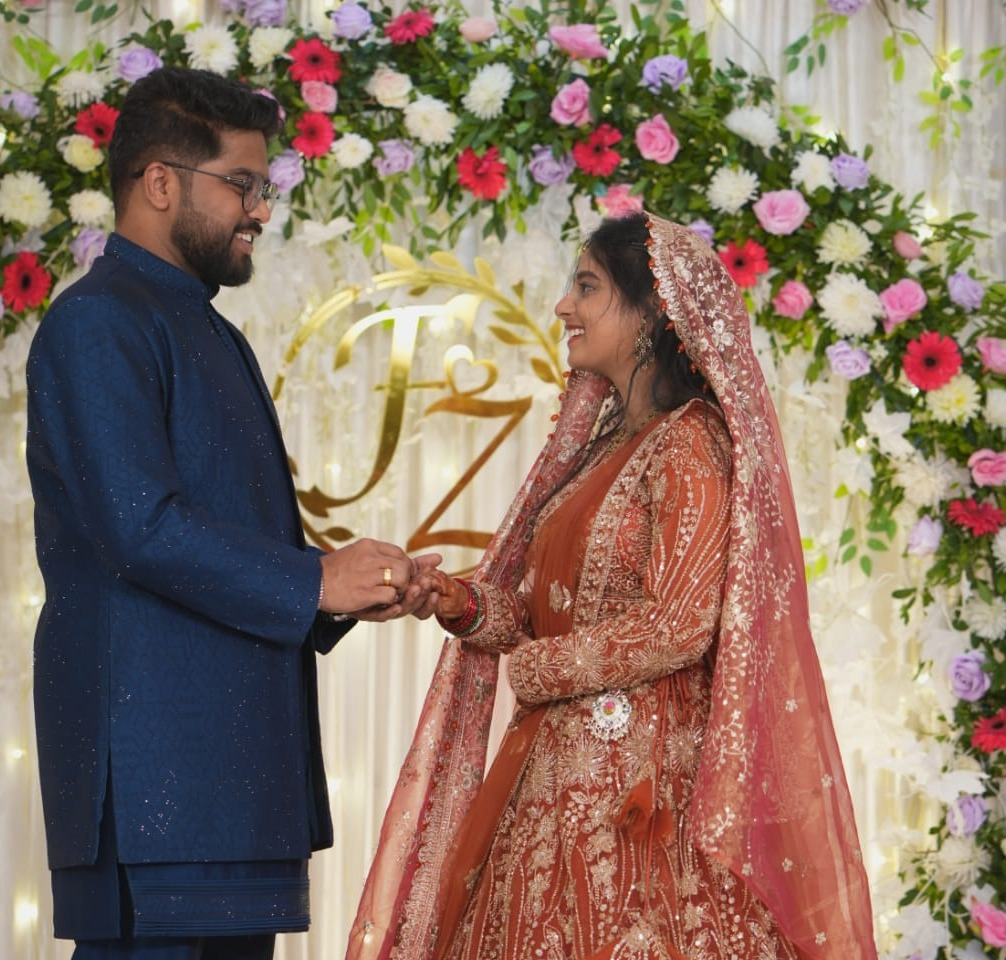
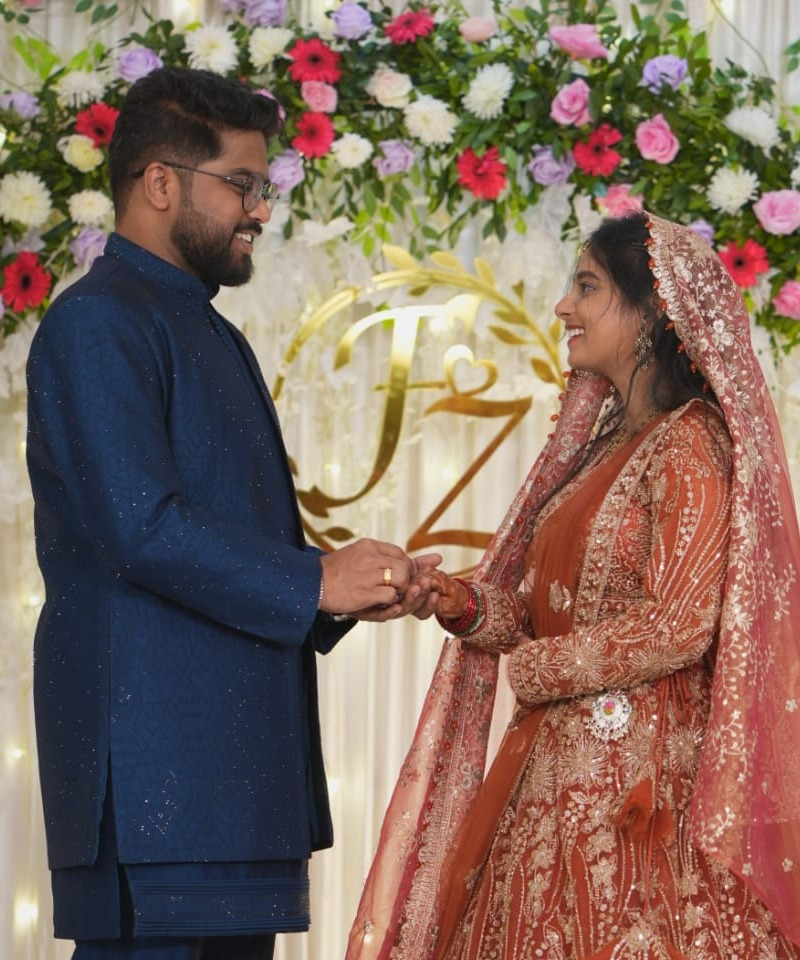
Fix hero ornament centering bug; re-center the story photo crop
- The hero ornament's centering transform (translateX(-50%)) and the
  .fade-up entrance animation's transform (translateY) were both
  writing to the same CSS property on the same element, so the
  fade-up animation silently won and the centering was never applied
  — the ornament rendered ~100px right of true center. Moved the
  centering to a wrapper div so the two transforms no longer collide.
- Re-cropped the story photo: the previous crop centered on the
  photo's geometric middle, but the two faces themselves sit left of
  that middle, so the couple looked off-center inside the arch frame.
  Re-cropped narrower (800x960) around the actual midpoint between
  their faces/clasped hands instead.

diff --git a/our-wedding.html b/our-wedding.html
@@ -96,8 +96,11 @@
     background-size: cover;
     background-position: center 25%;
   }
-  .hero-ornament {
+  .hero-ornament-wrap {
     position: absolute; top: clamp(14px, 3vh, 28px); left: 50%; transform: translateX(-50%);
+  }
+  .hero-ornament {
+    display: block;
     width: min(220px, 55vw); height: auto; color: var(--gold); opacity: 0.85;
   }
   .hero-eyebrow {
@@ -208,7 +211,7 @@
   .story-photo-frame {
     width: 100%;
     max-width: 340px;
-    aspect-ratio: 1006 / 960;
+    aspect-ratio: 800 / 960;
     margin: 0 auto 28px;
     padding: 5px;
     background: linear-gradient(160deg, var(--gold), var(--bronze));
@@ -423,13 +426,15 @@
 </nav>
 
 <section id="home" class="hero">
-  <svg class="hero-ornament fade-up" viewBox="0 0 320 90" fill="none" xmlns="http://www.w3.org/2000/svg" aria-hidden="true">
-    <path d="M10 45 C 60 10, 110 10, 160 45 C 210 80, 260 80, 310 45" stroke="currentColor" stroke-width="1.2"/>
-    <path d="M152 37 L168 37 L168 53 L152 53 Z" stroke="currentColor" stroke-width="1"/>
-    <path d="M160 34 L171 45 L160 56 L149 45 Z" stroke="currentColor" stroke-width="1"/>
-    <path d="M60 45 a8 8 0 1 1 0.01 0" stroke="currentColor" stroke-width="1"/>
-    <path d="M260 45 a8 8 0 1 1 0.01 0" stroke="currentColor" stroke-width="1"/>
-  </svg>
+  <div class="hero-ornament-wrap">
+    <svg class="hero-ornament fade-up" viewBox="0 0 320 90" fill="none" xmlns="http://www.w3.org/2000/svg" aria-hidden="true">
+      <path d="M10 45 C 60 10, 110 10, 160 45 C 210 80, 260 80, 310 45" stroke="currentColor" stroke-width="1.2"/>
+      <path d="M152 37 L168 37 L168 53 L152 53 Z" stroke="currentColor" stroke-width="1"/>
+      <path d="M160 34 L171 45 L160 56 L149 45 Z" stroke="currentColor" stroke-width="1"/>
+      <path d="M60 45 a8 8 0 1 1 0.01 0" stroke="currentColor" stroke-width="1"/>
+      <path d="M260 45 a8 8 0 1 1 0.01 0" stroke="currentColor" stroke-width="1"/>
+    </svg>
+  </div>
   <div class="hero-eyebrow fade-up d1">Together with their families</div>
   <h1 class="fade-up d2"><span id="hero-p1">Abdul Rahman</span> <em>weds</em> <span id="hero-p2">Fathimunnisa</span></h1>
   <div class="hero-date mono fade-up d3" id="hero-dates">18 – 21 December 2026</div>
